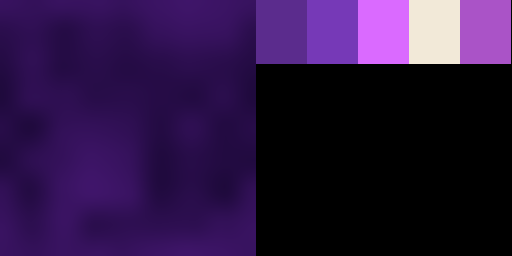
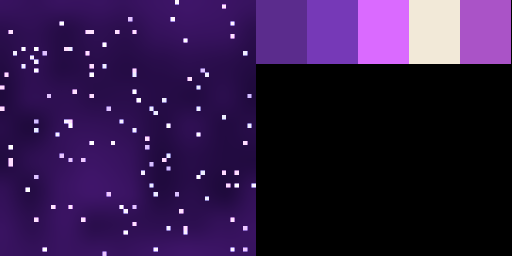
Galaxy crate body carries its stars

diff --git a/tools/model/build-crates.py b/tools/model/build-crates.py
@@ -76,7 +76,8 @@ def tuile_de(theme):
     """The 256 x 256 surface of a theme, or None for a flat crate."""
     from PIL import ImageDraw, ImageChops
     def skin(nom): return Image.open(os.path.join(TUILES_SKIN, nom)).convert('RGB').resize((TUILE_PX, TUILE_PX), Image.LANCZOS)
-    if theme in (5, 9, 6, 11): return skin(f'skin-{theme}-albedo.png')
+    if theme in (5, 9, 11): return skin(f'skin-{theme}-albedo.png')
+    if theme == 6: return ImageChops.add(skin('skin-6-albedo.png'), skin('skin-6-glow.png'))  # nebula and its stars
     if theme == 12:
         base = Image.new('RGB', (TUILE_PX, TUILE_PX), (8, 26, 33))
         return ImageChops.add(base, skin('skin-12-glow.png'))
